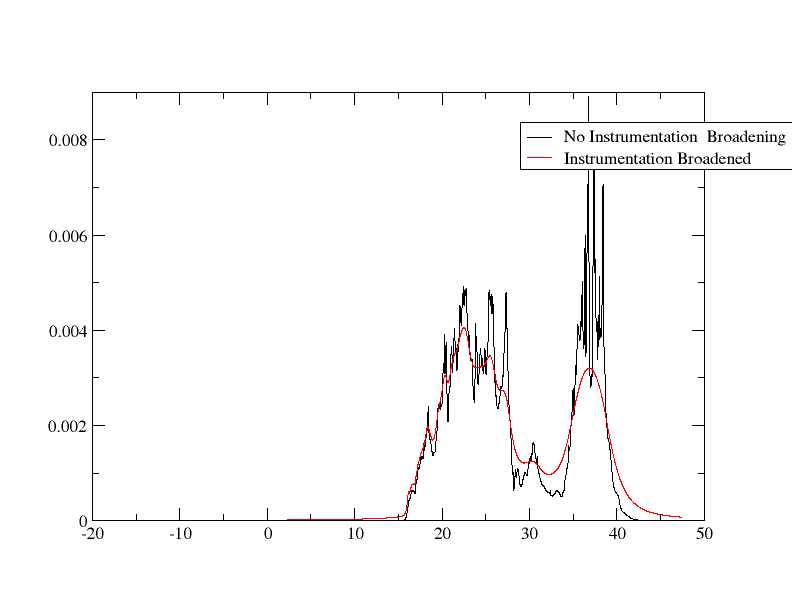
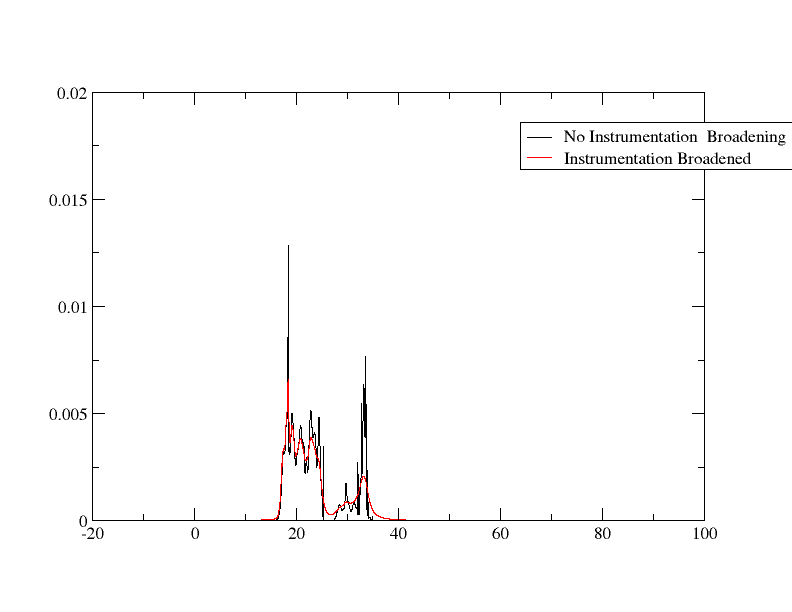
Changed around supercell - still not sure, think file wanted is called different - but results still not great compared to experiment

diff --git a/docs/tutorials/Coreloss/Coreloss.md b/docs/tutorials/Coreloss/Coreloss.md
@@ -223,12 +223,15 @@ B:exi 2|1.2|12|14|16|20:21(qc=8){1s1.00}
 spectral_kpoint_mp_grid 5 5 5
 ```
 
-With double the size of the supercell, you may also halve the kpoints: this allows it to be calculated faster without losing accuracy.
+With double the size of the supercell, you may also halve the kpoints: this allows it to be calculated faster without losing accuracy. However, it will still take significantly longer to calculate.
 
 Specifying 1 of the boron atoms to be called `B:exi` and making changing the potential block to only affect that means that we simulate only 1 of the boron atoms losing that electron - by doing this we prevent the interaction problem mentioned above. Re-run Castep and Optados. There will now be 16 output files, rather than just 2 - there is a core edge output for every atom - so `bn_B1K1_core_edge.dat` is the core edge result for the boron with the missing 1s electron. Let's plot it on xmgrace, using the same method as before. This is the output:
 
 ![Supercell 1s output](super.png)
- 
+
+## Comparison to Experiment
+
+
 
 Other things to try include:
 
